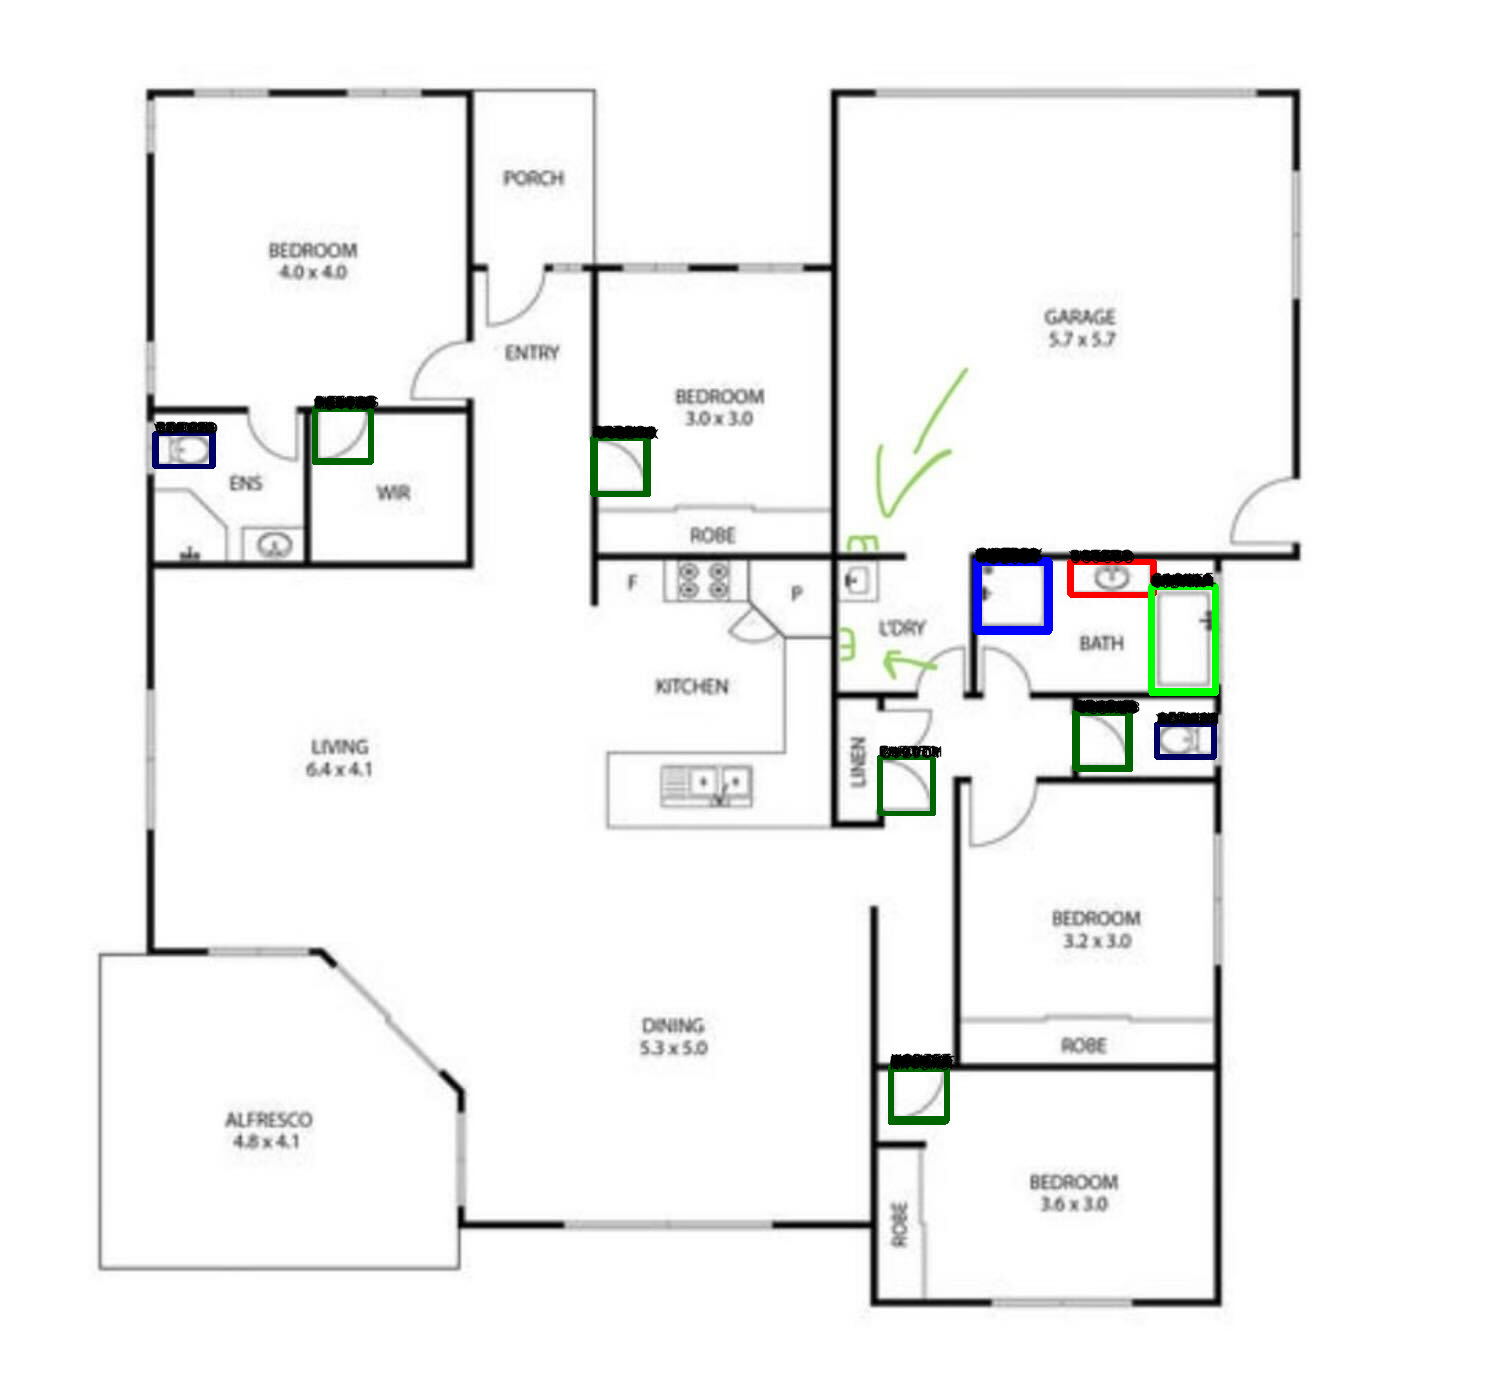
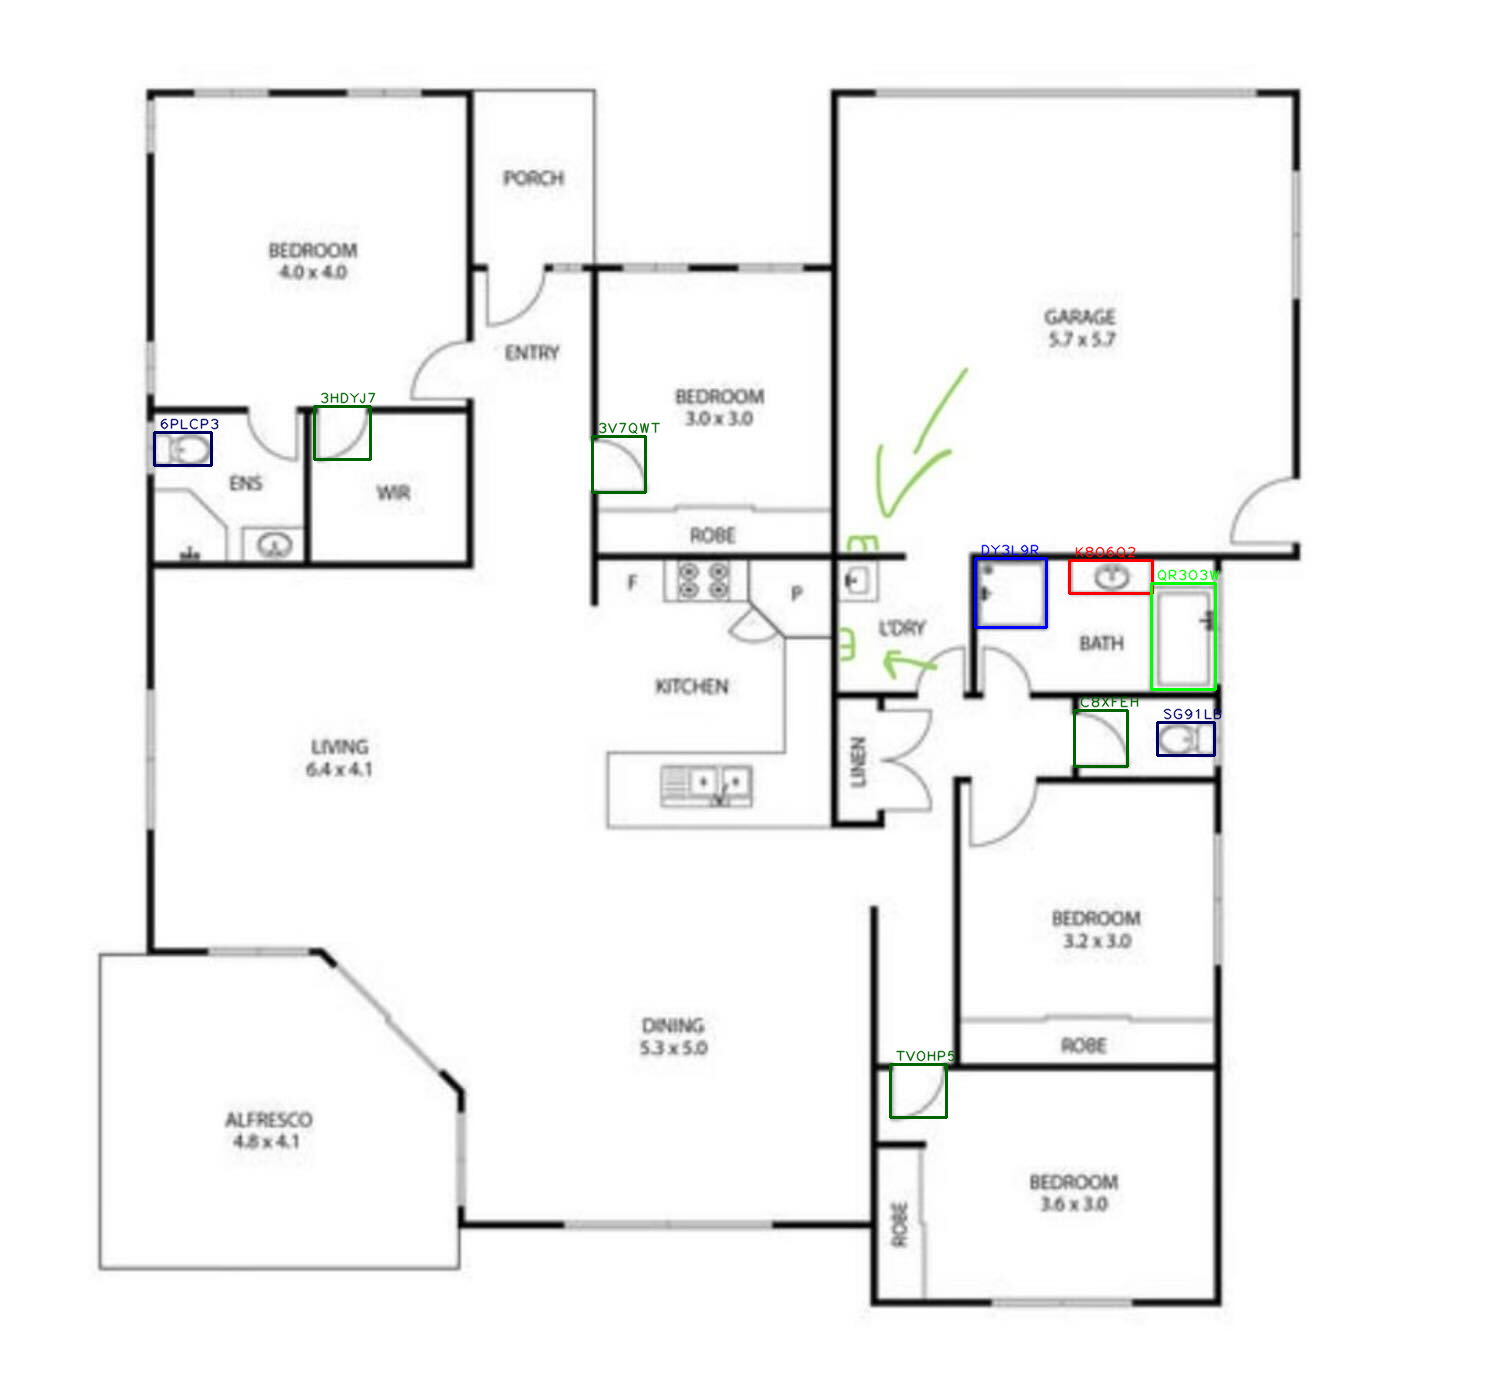
WIP: Count and catalog discovered items (3)
- Items are labelled properly
- Double detection prevention system implemented

diff --git a/lab/template_matching007-generic.py b/lab/template_matching007-generic.py
@@ -30,14 +30,25 @@ def id_generator(size=6, chars=string.ascii_uppercase + string.digits):
   return ''.join(random.choice(chars) for _ in range(size))
 
 def spotanddraw(floorplan_pic_rgb, floorplan_pic_gray, template_pic, template_w, template_h, border_color_r, border_color_g, border_color_b, item_type):
+  # print('')
+  # print(f'[DEBUG] spotanddraw()')
   res = cv.matchTemplate(floorplan_pic_gray,template_pic,cv.TM_CCOEFF_NORMED)
   threshold = 0.8
-  loc = np.where( res >= threshold)
-  for pt in zip(*loc[::-1]):
-    cv.rectangle(floorplan_pic_rgb, pt, (pt[0] + template_w, pt[1] + template_h), (border_color_r,border_color_g,border_color_b), 2)
-    rndid=id_generator()
-    print(f'[INFO] New {item_type} ({rndid}) located {pt}')
-    cv.putText(floorplan_pic_rgb, rndid, pt, cv.FONT_HERSHEY_PLAIN, 1, (0,0,0), 1, cv.LINE_AA)
+  loc = np.where(res >= threshold)
+  if (len(loc[1]) > 0):
+    # print(f'[DEBUG] loc[0]: {loc[0]}')
+    # print(f'[DEBUG] loc[1]: {loc[1]}')
+    minx = 0
+    maxdrift = template_h
+    for pt in zip(*loc[::-1]):
+      # print(f'[DEBUG] minx: {minx}')
+      # print(f'[DEBUG] pt[0]: {pt[0]} - pt[1]: {pt[1]}')
+      if ((minx == 0) or (pt[1] > minx + maxdrift) or  (pt[1] < minx - maxdrift)):
+        cv.rectangle(floorplan_pic_rgb, pt, (pt[0] + template_w, pt[1] + template_h), (border_color_r,border_color_g,border_color_b), 2)
+        rndid=id_generator()
+        print(f'[INFO] New {item_type} ({rndid}) located {pt}')
+        cv.putText(floorplan_pic_rgb, rndid, (pt[0] + 5, pt[1] - 3), cv.FONT_HERSHEY_PLAIN, 1, (border_color_r,border_color_g,border_color_b), 1, cv.LINE_AA)
+        minx = pt[1]
  
 parser = argparse.ArgumentParser(description='Look for items and furniture on a floorplan')
 parser.add_argument('--floorplan', help='Path to input floorplan image.', default='floorplan.png')

diff --git a/README.md b/README.md
@@ -3,7 +3,7 @@ Locate bathrooms on floorplans using computer vision and whatever works.
 
 ## Latest sample output
 
-![template_matching006-generic_output.png](./template_matching006-generic_output.png)
+![template_matching007-generic_output.png](./template_matching007-generic_output.png)
 
 - Sinks are outlined in red
 - Showers are outlined in blue
@@ -11,7 +11,7 @@ Locate bathrooms on floorplans using computer vision and whatever works.
 - Doors are outline in dark green
 - Toilets are outlined in dark blue
 
-Generated using: `$ python3 ./lab/template_matching006-generic.py --floorplan=./assets/archive/floorplan001.jpg --sink=./assets/sinks/floorplan001-sink01.png --shower=./assets/showers/floorplan001-shower01.png --bathtub=./assets/bathtubs/floorplan001-bathtub01.png --toilet=./assets/toilets/floorplan001-toilet01.png --door=./assets/doors/floorplan001-door01.png`
+Generated using: `$ python3 ./lab/template_matching007-generic.py --floorplan=./assets/archive/floorplan001.jpg --sink=./assets/sinks/floorplan001-sink01.png --shower=./assets/showers/floorplan001-shower01.png --bathtub=./assets/bathtubs/floorplan001-bathtub01.png --toilet=./assets/toilets/floorplan001-toilet01.png --door=./assets/doors/floorplan001-door01.png`
 
 ## Description
 
